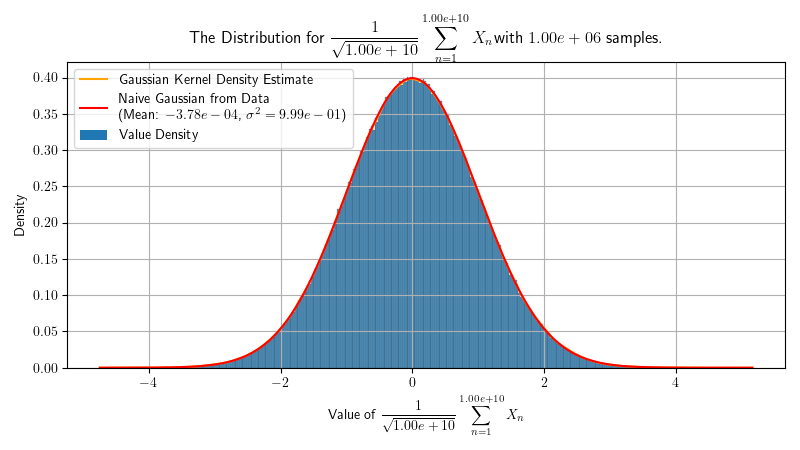
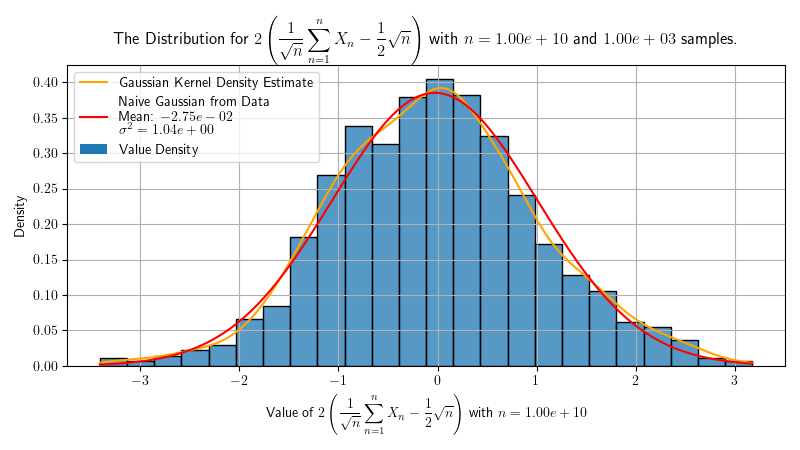
Fixed labels and legend

diff --git a/m228_workouts/psets/problem_4.py b/m228_workouts/psets/problem_4.py
@@ -64,30 +64,50 @@ def solution_4(N_sim=10**4, N_sum=10**4, show_plt=False, save_plt=True, fname=No
 
     plt.title(
         "The Distribution for "
-        + r"$\displaystyle{\frac{1}{\sqrt{"
+        r"$\displaystyle{"
+        + r"2 \left ("
+        + r"\frac{1}{\sqrt{"
+        + f"n"
+        + r"}}"
+        + r"\sum_{n = 1}^{"
+        + f"n"
+        + r"}"
+        + r"X_n"
+        + r"- \frac{1}{2} \sqrt{n}"
+        + r"\right )"
+        + r"}$"
+        + r" with $n = "
         + f"{N_sum:.2e}"
-        + r"}} \sum_{n = 1}^{"
-        + f"{N_sum:.2e}"
-        + r"} X_n}$"
-        + r"with $"
+        + r"$ "
+        + r"and $"
         + f"{N_sim:.2e}"
         + r"$ samples."
     )
 
     plt.xlabel(
         "Value of "
-        + r"$\displaystyle{\frac{1}{\sqrt{"
+        + r"$\displaystyle{"
+        + r"2 \left ("
+        + r"\frac{1}{\sqrt{"
+        + f"n"
+        + r"}}"
+        + r"\sum_{n = 1}^{"
+        + f"n"
+        + r"}"
+        + r"X_n"
+        + r"- \frac{1}{2} \sqrt{n}"
+        + r"\right )"
+        + r"}$"
+        + r" with $n = "
         + f"{N_sum:.2e}"
-        + r"}} \sum_{n = 1}^{"
-        + f"{N_sum:.2e}"
-        + r"} X_n}$"
+        + r"$"
     )
     plt.ylabel("Density")
 
     plt.legend(
         [
             f"Gaussian Kernel Density Estimate",
-            f"Naive Gaussian from Data\n (Mean: ${float(np.mean(data)):.2e}$, $\\sigma^2 = {float(np.std(data)):.2e}$)",
+            f"Naive Gaussian from Data\n Mean: ${float(np.mean(data)):.2e}$\n $\\sigma^2 = {float(np.std(data)):.2e}$",
             f"Value Density",
         ],
         loc="upper left",
@@ -106,4 +126,4 @@ def solution_4(N_sim=10**4, N_sum=10**4, show_plt=False, save_plt=True, fname=No
 
 
 if __name__ == "__main__":
-    solution_4(N_sim=10**6, N_sum=10**10, save_plt=True, show_plt=True)
+    solution_4(N_sim=10**3, N_sum=10**10, save_plt=True, show_plt=True)
